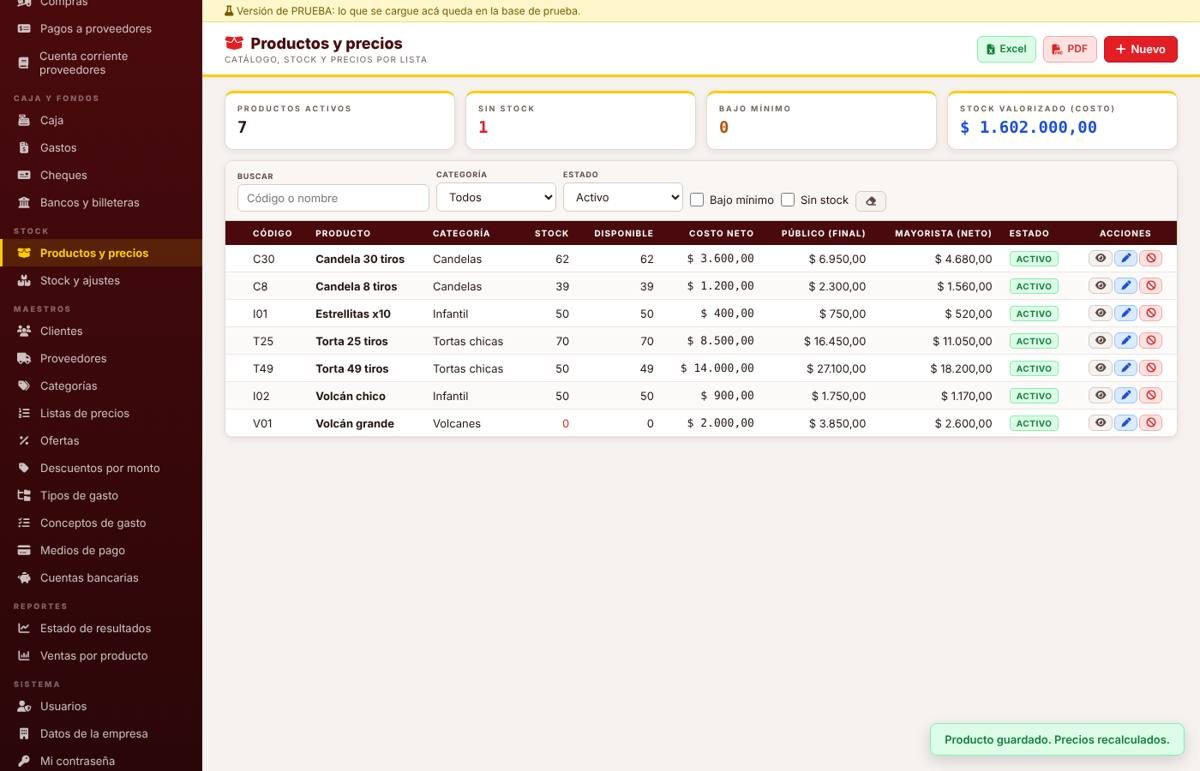
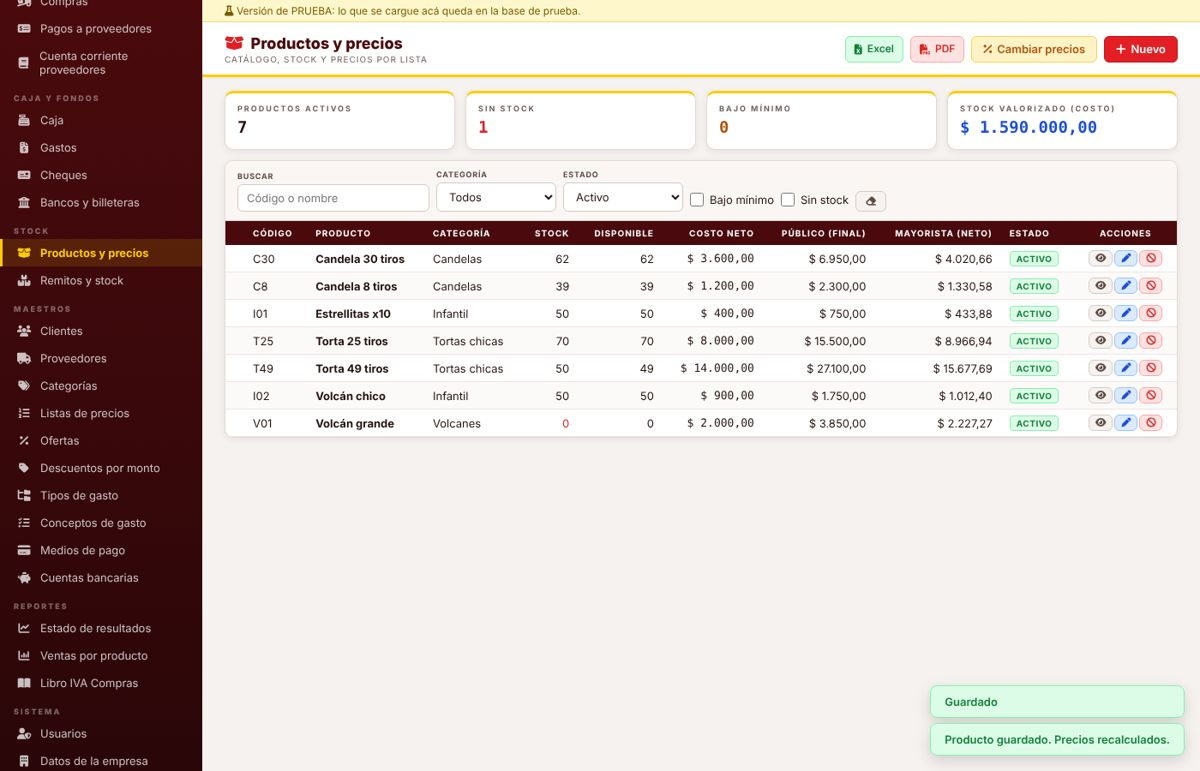
Manual y circuitos: precios, descuentos, cambio masivo, importación y catálogo
Claude-Session: https://claude.ai/code/session_017b1w5AMczjtWGQrhQYJVcd

diff --git a/manual/index.html b/manual/index.html
@@ -170,7 +170,7 @@ const S = [
   </div></div>`,
   ojo:['<b>Nada se borra.</b> Lo que está mal se anula o se da de baja, siempre con un motivo, y queda registrado.',
        '<b>Una venta emitida no se cambia.</b> Se corrige con una nota de crédito (devolver o bonificar) o una nota de débito (cobrar algo más).',
-       '<b>Los precios se calculan solos</b>: costo × (1 + margen de la lista). Para cambiar precios se cambia el costo del producto o el margen de la lista.',
+       '<b>Los precios se calculan solos</b>: la <b>lista base</b> (Público, que es el precio sugerido de venta) = costo × (1 + margen). La <b>Mayorista</b> = lista base − 30 %. Para cambiar precios se cambia el costo (de a uno, en masa por % o importando un Excel) o el margen de la lista base.',
        'Los campos con <b style="color:var(--rojo)">*</b> son obligatorios. Los avisos de abajo a la derecha dicen si salió bien (verde) o por qué no se pudo (rojo).'] },
 
 { id:'primerdia', g:'Empezá acá', t:'Primer día: qué cargar y en qué orden', check:true,
@@ -180,7 +180,7 @@ const S = [
     ['usuarios','<b>Usuarios</b>: creá uno por persona que use el sistema y cambiá las claves iniciales.'],
     ['cuentas','<b>Cuentas bancarias</b>: banco, Mercado Pago, caja fuerte.'],
     ['medios','<b>Medios de pago</b>: indicá en qué cuenta acredita cada uno (transferencia → banco, QR → Mercado Pago) y la comisión de las tarjetas.'],
-    ['listas','<b>Listas de precios</b>: margen de Público y de Mayorista.'],
+    ['listas','<b>Listas de precios</b>: margen de la lista base (Público) y el % de descuento de la Mayorista.'],
     ['categorias','<b>Categorías</b>: los rubros del catálogo y su orden.'],
     ['proveedores','<b>Proveedores</b>.'],
     ['productos','<b>Productos y precios</b>: cada producto con su costo. Los precios salen solos.'],
@@ -202,11 +202,12 @@ const S = [
   para:'Cotizaciones para clientes. El presupuesto guarda sus precios mientras está vigente: si después sube un costo, el cliente paga lo presupuestado.',
   pasos:['Tocá ' + B('+ Nuevo presupuesto') + '.',
     '<b>Paso 1 · Encabezado.</b> Elegí el <b>Cliente</b> en el buscador. Si no existe, tocá el botón de la persona con + al lado y dalo de alta ahí mismo.',
-    'Revisá <b>Lista de precios</b> (por defecto la del cliente) y <b>Válido hasta</b> (por defecto hoy + 7 días). Si corresponde, completá descuento y nota.',
+    'Revisá <b>Lista de precios</b> (por defecto la del cliente) y <b>Válido hasta</b> (por defecto hoy + 2 días). Si querés, escribí una nota.',
     'Tocá ' + B('Guardar encabezado y cargar productos') + '. Aparece el número <code>PR-000001</code> y se habilita el paso 2.',
     '<b>Paso 2 · Productos.</b> En <b>Producto</b> buscá por código, nombre o categoría y elegilo. Debajo aparece el precio de lista y el disponible.',
     'Poné la <b>Cantidad</b> y tocá ' + B('+ Agregar') + ' (o Enter). La línea entra en la grilla y el total de abajo a la derecha se actualiza.',
     'Repetí con cada producto. Para corregir una línea tocá el lápiz; para sacarla, el tacho.',
+    '<b>Descuento general (opcional, solo el dueño).</b> Abajo, en el recuadro <b>3 · Descuento general</b>: escribí el número, elegí <b>%</b> o <b>$</b> (en $ es lo que se descuenta del total con IVA), escribí el <b>Motivo</b> y tocá ' + B('Aplicar descuento y motivo','s') + '. El total se recalcula. Si el cliente tiene descuento propio, ya viene aplicado solo y se ve en los totales.',
     '<b>Paso 3 · Grabar.</b> Tocá ' + B('Grabar presupuesto') + ' al pie. Queda <b>Pendiente</b>, ya no se modifica y la validez de 2 días empieza a correr. Recién ahí aparecen PDF, WhatsApp y Convertir.',
     'Para mandarlo: ' + B('PDF','s') + ' lo descarga, ' + B('Enviar por WhatsApp','g') + ' abre WhatsApp con un mensaje y un link donde el cliente lo ve y lo descarga.',
     'Cuando el cliente confirma, tocá ' + B('Cliente confirmó: convertir en venta') + ': elegí Contado (pasa al cobro) o Cuenta corriente, y si emitiste factura ARCA aparte, su número. Se emite la venta con los precios del presupuesto.',
@@ -214,17 +215,19 @@ const S = [
   campos:[['Cliente','Elegilo del buscador. Botón de la persona + para crear uno nuevo.','Sí'],
     ['Lista de precios','“La del cliente” o una lista puntual.','No'],
     ['Válido hasta','Viene en hoy + 2 días; podés poner una fecha más larga. Al grabar nunca queda en menos de 2 días. Ya pendiente, se cambia con la fecha y el tilde de al lado. Después de esa fecha pasa solo a Vencido.','No'],
-    ['Descuento general %','Descuento sobre todo el presupuesto. Solo el dueño.','No'],
-    ['Motivo del descuento','Por qué se hizo el descuento o el precio especial.','No'],
     ['Nota para el cliente','Sale impresa en el PDF.','No'],
     ['Producto','Buscador por código, nombre o categoría.','Sí'],
     ['Cantidad','Unidades.','Sí'],
     ['Precio neto unit.','Vacío = precio de lista. Escribir un precio = precio especial. Solo el dueño.','No'],
-    ['Desc. línea %','Descuento de esa línea. Solo el dueño.','No']],
+    ['Desc. línea %','Descuento de esa línea. Solo el dueño.','No'],
+    ['Descuento general (al pie)','Número en % o en $. Solo el dueño, antes de grabar.','No'],
+    ['Motivo del descuento / precio especial (al pie)','Obligatorio si hay descuento general, descuento por línea o precio especial.','A veces']],
   botones:[['Excel / PDF','Descarga el listado filtrado.'],['Lápiz u ojo','Abre el presupuesto (lápiz si se puede editar, ojo si ya está cerrado).'],['WhatsApp','Lo manda al celular del cliente.'],['Caja registradora','Convertir en venta.'],['Copiar','Duplicar con precios actuales.']],
   ojo:['Estados: <b>En carga</b> → (Grabar) → <b>Pendiente</b> → <b>Aceptado</b> (se convirtió en venta) · <b>Rechazado</b> · <b>Vencido</b>.',
     'La lista abre filtrada en <b>Pendientes</b>: los que esperan respuesta del cliente.',
     'Un presupuesto grabado no se edita: duplicalo (el nuevo toma los precios de hoy).',
+    'Los descuentos se aplican <b>en cascada</b>, uno sobre el otro: primero el de la línea, después el propio del cliente y al final el general. Ejemplo: $ 1.000 con 10 % de cliente y 5 % general = $ 855 (no $ 850).',
+    'En el PDF y en la página que ve el cliente aparece el subtotal, el descuento en pesos y el total.',
     'Las tarjetas de arriba muestran la <b>Efectividad</b>: aceptados sobre enviados.'] },
 
 { id:'ventas', g:'Ventas', t:'Ventas y notas', shot:'20_venta_cc', cap:'Venta en carga: encabezado, productos y botón Confirmar venta.',
@@ -234,13 +237,14 @@ const S = [
     '<b>Paso 1 · Encabezado.</b> Elegí el <b>Cliente</b> (para un mostrador sin datos usá <b>Consumidor Final</b>). Elegí la <b>Condición</b>: Contado o Cuenta corriente.',
     'Completá si hace falta Recargo, Envío, Nota o N° de factura ARCA, y tocá ' + B('Guardar encabezado y cargar productos') + '.',
     '<b>Paso 2 · Productos.</b> Buscá el producto, poné la cantidad y tocá ' + B('+ Agregar') + '. Repetí. Si no hay stock suficiente, el sistema avisa y no lo deja agregar.',
+    '<b>Descuento general (opcional, solo el dueño).</b> En el recuadro <b>3 · Descuento general</b> de abajo: número en % o en $, <b>Motivo</b> y ' + B('Aplicar descuento y motivo','s') + '. Si pusiste un descuento por línea o un precio especial, el motivo se escribe ahí mismo (aunque el descuento general quede en 0).',
     '<b>Paso 3 · Confirmar.</b> Revisá el total y tocá ' + B('Confirmar venta') + '.',
     'Si es <b>Cuenta corriente</b>, confirmás y listo: queda como deuda del cliente.',
     'Si es <b>Contado</b>, se abre la ventana de cobro (ver abajo). Al confirmar el cobro se emite la venta <code>VTA 0001-00000001</code> y se abre el comprobante.',
     'Desde el comprobante podés bajar el ' + B('PDF','s') + ', mandarlo por ' + B('WhatsApp','g') + ', ' + B('Cobrar','g') + ' si quedó saldo o hacer una ' + B('Nota de crédito','y') + '.'],
   campos:[['Cliente','Del buscador. Botón de la persona + para crearlo.','Sí'],['Lista de precios','La del cliente o una puntual.','No'],['Condición','Contado (se cobra ahora) o Cuenta corriente (queda debiendo).','Sí'],
-    ['Descuento general %','Solo el dueño.','No'],['Motivo del descuento','Obligatorio en la práctica si hay descuento o precio especial.','No'],
-    ['Recargo (neto)','Recargo sin IVA, por ejemplo por pago con tarjeta.','No'],['Envío (neto)','Costo de envío sin IVA.','No'],['Nota','Observación interna.','No'],['N° de factura ARCA','Si la factura electrónica se hizo aparte.','No']],
+    ['Recargo (neto)','Recargo sin IVA, por ejemplo por pago con tarjeta.','No'],['Envío (neto)','Costo de envío sin IVA.','No'],['Nota','Observación interna.','No'],['N° de factura ARCA','Si la factura electrónica se hizo aparte.','No'],
+    ['Descuento general (al pie)','En % o en $. Solo el dueño.','No'],['Motivo (al pie)','Obligatorio si hay descuento general, por línea o precio especial.','A veces']],
   extra:`<div class="blk"><h2>La ventana de cobro</h2><a class="shot" data-z="img/11_cobro.jpg"><img src="img/11_cobro.jpg" alt="Ventana de cobro" loading="lazy"></a><div class="shotcap">Cobro de una venta de contado.</div>
   <ol class="pasos" style="margin-top:12px">
     <li><div>Arriba ves el <b>TOTAL A COBRAR</b> y lo que <b>FALTA</b>. Arranca con una línea de Efectivo por el total.</div></li>
@@ -380,14 +384,20 @@ const S = [
     'Columnas: Stock, <b>Disponible</b> (stock menos lo reservado en pedidos web), Costo (solo dueño), precio <b>Público final</b> y <b>Mayorista neto</b>.',
     'Ojo: ficha del producto con precios vigentes por lista, historial de costos y movimientos de stock de 12 meses.',
     '<b>Alta (solo dueño):</b> ' + B('+ Nuevo') + ', completá los campos y ' + B('Guardar') + '. Los precios se calculan al guardar.',
-    '<b>Cambiar precio:</b> editá el producto y cambiá el <b>Costo neto</b>. Todas las listas se recalculan.',
+    '<b>Cambiar el precio de un producto:</b> editalo y cambiá el <b>Costo neto</b>. La lista base y la mayorista se recalculan solas.',
+    '<b>Cambiar muchos precios juntos (solo dueño):</b> ' + B('Cambiar precios','y') + ' arriba. Dos formas:',
+    '· <b>Subir o bajar por %</b>: elegí la <b>Categoría</b> y/o el <b>Proveedor</b> (vacío = todos), poné el <b>Porcentaje</b> (10 sube 10 %, −5 baja 5 %) y tocá ' + B('Ver cómo quedan','s') + '. Revisá la lista con el costo actual y el nuevo, y tocá ' + B('Aplicar a los … productos') + ' → Confirmar.',
+    '· <b>Importar lista de costos (Excel)</b>: elegí el archivo (.xlsx, .xls o .csv). El sistema busca solo las columnas del <b>código</b> y del <b>costo neto</b>; si no las acierta, elegilas en las listas. Tocá ' + B('Revisar cambios','s') + ': ves cuántos cambian, cuántos quedan igual, los códigos que no existen (no se dan de alta) y las filas con error. Si un costo cambia más de 50 % aparece en rojo para que lo revises. Tocá ' + B('Aplicar … cambios') + ' → Confirmar.',
     '<b>Baja:</b> círculo tachado. Deja de aparecer en el catálogo y en las ventas; no se borra.'],
   campos:[['Código','Único. Ej: PA0600.','Sí'],['Nombre','Como lo ve el cliente.','Sí'],['Categoría','Rubro del catálogo.','Sí'],['Costo neto del proveedor','Sin IVA. Sin costo no hay precio.','Sí al crear'],
     ['IVA','Alícuota, normalmente 21%.','Sí'],['Unidad de venta','Unidad, caja, etc.','Sí'],['Unidades por bulto','Para mayoristas.','No'],['Proveedor principal','Del buscador.','No'],['Stock mínimo','Debajo de esto avisa en Inicio.','No'],
-    ['Código de barras','Para buscar con lector.','No'],['Uso','Venta libre o Uso profesional.','No'],['Edad mínima','Años.','No'],['Descripción','Texto del catálogo.','No'],
+    ['Código de barras','Para buscar con lector.','No'],['Uso','Venta libre o Uso profesional.','No'],['Edad mínima','Años.','No'],['Descripción','Texto del catálogo.','No'],['Video (link de YouTube)','Opcional. En el catálogo aparece “Ver más · video” y el video se ve en la ficha.','No'],['Información adicional','Opcional. Se ve en la ficha del catálogo: duración, efectos, recomendaciones.','No'],
     ['Controla stock','Destildar para servicios o conceptos.','No'],['Pide lote y vencimiento','Al comprar pide lote y fecha.','No'],['Nuevo / Destacado / Outlet','Etiquetas del catálogo.','No'],['Envío por correo','Si se puede mandar por correo.','No'],
     ['Fotos','Tocá <b>Subir fotos</b> y elegilas del celular o la computadora (o sacalas con la cámara). Se achican solas y se guardan en el sistema. La estrella elige la principal (la del catálogo); la cruz quita una. Se guardan al tocar Guardar.','No']],
-  ojo:['El stock no se edita acá: se mueve con compras, ventas, notas de crédito y remitos (menú Remitos y stock).','El operador ve los productos pero no los puede modificar ni ve costos.'] },
+  extra:`<div class="blk"><h2>Cambiar precios por %</h2><a class="shot" data-z="img/62_precios_masivo.jpg"><img src="img/62_precios_masivo.jpg" alt="Cambio masivo de precios" loading="lazy"></a><div class="shotcap">Vista previa de un aumento del 10 % antes de aplicarlo.</div></div>
+  <div class="blk"><h2>Importar la lista de costos</h2><a class="shot" data-z="img/63_importar_costos.jpg"><img src="img/63_importar_costos.jpg" alt="Importar lista de costos" loading="lazy"></a><div class="shotcap">Revisión del archivo: cuántos cambian, cuáles no existen y los costos nuevos.</div></div>`,
+  ojo:['Todos los cambios de costo quedan en el historial del producto (ojo → Historial de costos). Nada se pierde.',
+       'El stock no se edita acá: se mueve con compras, ventas, notas de crédito y remitos (menú Remitos y stock).','El operador ve los productos pero no los puede modificar ni ve costos.'] },
 
 { id:'stock', g:'Stock', t:'Remitos y stock', shot:'90_operador', cap:'Listado de remitos: uno para autorizar y uno ya facturado.',
   para:'Toda entrada o salida de mercadería que no es una venta ni una factura de compra se hace con un <b>remito</b>. El operador lo carga y el <b>dueño lo autoriza</b>: recién ahí se mueve el stock.',
@@ -412,16 +422,18 @@ const S = [
     B('+ Nuevo') + ': completá los campos y ' + B('Guardar') + '. También se crean desde una venta o presupuesto.',
     'Lápiz para editar, ojo para la cuenta corriente, WhatsApp para escribirle.'],
   campos:[['Tipo','Consumidor o Mayorista. Define la lista de precios por defecto.','Sí'],['Nombre / Razón social','','Sí'],['Celular (WhatsApp)','Con código de área: 387 474-9807. No se puede repetir.','No'],['Email','','No'],
-    ['Tipo y N° de documento','DNI, CUIT o CUIL.','No'],['Condición IVA','Consumidor final por defecto.','Sí'],['Lista de precios','Solo el dueño. Vacío = según el tipo.','No'],['Dirección / Localidad','','No'],
+    ['Tipo y N° de documento','DNI, CUIT o CUIL.','No'],['Condición IVA','Consumidor final por defecto.','Sí'],['Lista de precios','Solo el dueño. Vacío = según el tipo.','No'],['Dirección / Localidad','','No'],['Código postal','Para los envíos.','No'],
+    ['Descuento del cliente %','Solo el dueño. Se aplica solo en sus presupuestos y ventas, además de los otros descuentos (no en el catálogo web).','No'],
     ['Límite de crédito','Solo el dueño. 0 = sin límite.','No'],['Notas','','No']],
-  ojo:['El operador puede crear clientes y corregir sus datos de contacto; tipo, lista, límite y baja los cambia el dueño.'] },
+  ojo:['El operador puede crear clientes y corregir sus datos de contacto; tipo, lista, descuento, límite y baja los cambia el dueño.',
+    'Un cliente con tipo <b>Mayorista</b> usa la lista Mayorista (lista base − 30 %) y, desde el catálogo mayorista, sus pedidos se registran a su nombre si usa el celular que tiene cargado.'] },
 
 { id:'maestros', g:'Maestros', t:'Proveedores, categorías y demás tablas', shot:'p_categorias', cap:'Pantalla de Categorías: todas las tablas maestras funcionan igual.',
   para:'Las tablas que alimentan los buscadores y listas desplegables. Todas funcionan igual: ' + B('+ Nuevo') + ', lápiz para editar, círculo tachado para dar de baja y flecha verde para reactivar. Las altas y cambios las hace el dueño.',
   extra:`<div class="blk"><h2>Qué tiene cada una</h2><div class="tw"><table><thead><tr><th>Pantalla</th><th>Campos</th><th>Para qué</th></tr></thead><tbody>
   <tr><td>Proveedores <span class="chip d">dueño</span></td><td>Razón social*, CUIT, Condición IVA, Teléfono, Email, Dirección, Plazo de pago (días), Notas</td><td>Compras y pagos. El libro abre su cuenta corriente.</td></tr>
   <tr><td>Categorías</td><td>Nombre*, Orden en el catálogo</td><td>Rubros del catálogo. Orden 1 sale primero.</td></tr>
-  <tr><td>Listas de precios</td><td>Código* (solo al crear), Nombre*, Margen %*, Redondear a múltiplos de $, Redondear el precio final con IVA</td><td>Precio = costo × (1 + margen), redondeado. Al cambiar margen o redondeo se recalculan todos los precios. El reloj muestra el historial de márgenes. Público y Mayorista no se pueden desactivar.</td></tr>
+  <tr><td>Listas de precios <span class="chip d">dueño</span></td><td>Código* (solo al crear), Nombre*, <b>Se calcula desde</b> (el costo con margen, u otra lista), Descuento % sobre esa lista, Margen %, Redondear a múltiplos de $ (0,01 = sin redondeo), Redondear el precio final con IVA</td><td><b>Público</b> es la lista base (precio sugerido) = costo × (1 + margen), redondeada sobre el precio final. <b>Mayorista</b> = Público − 30 %. Si cambia el margen de la base, la mayorista se recalcula sola. El reloj muestra el historial de márgenes. Público y Mayorista no se pueden desactivar.</td></tr>
   <tr><td>Ofertas</td><td>Producto*, Lista*, Precio de oferta NETO*, Desde*, Hasta*</td><td>Precio especial por fechas. Muestra si está programada, vigente o terminó.</td></tr>
   <tr><td>Descuentos por monto <span class="chip d">dueño</span></td><td>Lista*, Monto neto desde*, Descuento %*, Vigente desde, Vigente hasta</td><td>Descuento automático en el catálogo según el total. Ej: 5% desde $100.000 neto.</td></tr>
   <tr><td>Tipos de gasto</td><td>Nombre*</td><td>Grupos: Servicios, Sueldos, Impuestos…</td></tr>
@@ -450,15 +462,17 @@ const S = [
   para:'La tienda web que reemplaza a Tiendanube. El cliente arma el pedido y lo manda por WhatsApp; el pedido queda guardado en el panel.',
   pasos:[`Dirección: <a href="${CATALOGO}" target="_blank">${CATALOGO}</a>`,
     'El cliente elige categoría o busca, ajusta la cantidad con − y + y toca ' + B('Agregar') + '.',
+    'Si el producto tiene video o información adicional, aparece <b>Ver más</b> debajo del precio: abre una ficha con el video, las fotos y la información, y desde ahí también se agrega al pedido.',
     'Toca ' + B('MI PEDIDO','y') + ' (abajo a la derecha): ve los productos, cambia cantidades o los saca. Si hay descuento por monto, le avisa cuánto le falta para obtenerlo.',
     'Completa <b>Nombre y apellido</b>, <b>Celular</b> y si quiere un <b>Comentario</b>, y toca ' + B('Enviar pedido') + '.',
     'El pedido se guarda con su número y se abre WhatsApp con el detalle completo: cada producto con código, cantidad, precio unitario y subtotal, el total, nombre, celular y comentario. El cliente toca enviar.',
     'Vos lo ves en el panel en <b>Pedidos web</b> para confirmarlo.'],
-  extra:`<div class="blk"><h2>Mayoristas</h2><a class="shot" data-z="img/07_catalogo_mayorista.jpg"><img src="img/07_catalogo_mayorista.jpg" alt="Catálogo mayorista" loading="lazy"></a><div class="shotcap">Con el usuario mayorista los precios se ven netos + IVA.</div>
+  extra:`<div class="blk"><h2>Ficha del producto (Ver más)</h2><a class="shot" data-z="img/04_ficha_video.jpg"><img src="img/04_ficha_video.jpg" alt="Ficha con video" loading="lazy"></a><div class="shotcap">El video y la información se cargan en Productos (campos Video e Información adicional).</div></div>
+  <div class="blk"><h2>Mayoristas</h2><a class="shot" data-z="img/07_catalogo_mayorista.jpg"><img src="img/07_catalogo_mayorista.jpg" alt="Catálogo mayorista" loading="lazy"></a><div class="shotcap">Con el usuario mayorista los precios se ven netos + IVA.</div>
   <ol class="pasos" style="margin-top:12px"><li><div>Botón ${B('Mayoristas','s')} arriba a la derecha (en el celular, el segundo ícono al lado del buscador).</div></li>
   <li><div>Usuario y contraseña de mayorista (los crea el dueño en Usuarios con rol Mayorista).</div></li>
-  <li><div>Los precios pasan a la lista Mayorista, netos + IVA. El pedido funciona igual y el WhatsApp sale con neto, IVA y total.</div></li></ol>
-  <p style="margin:12px 0 0">El botón ${B('Lista','s')} descarga la lista de precios en Excel.</p></div>`,
+  <li><div>Los precios pasan a la lista Mayorista (lista base − 30 %), netos + IVA, y debajo de cada uno se ve el <b>Precio sugerido de venta</b> (la lista base). El pedido funciona igual y el WhatsApp sale con neto, IVA y total.</div></li>
+  <li><div>El botón ${B('Lista','s')} (solo con usuario mayorista) descarga la lista en Excel: código, producto, bulto, precio neto, IVA, precio con IVA, precio sugerido, oferta y stock.</div></li></ol></div>`,
   ojo:['El precio queda reservado 48 h hasta que lo confirmes.','Cada celular puede hacer un máximo de pedidos por día (se configura en Datos de la empresa).'] },
 
 { id:'problemas', g:'Ayuda', t:'Problemas frecuentes',

diff --git a/circuitos/index.html b/circuitos/index.html
@@ -61,11 +61,11 @@ a:focus-visible{outline:2px solid var(--amarillo);outline-offset:2px}
   <div class="eye">Pirotecnia Boom · sistema de gestión</div>
   <h1>Cómo funciona cada circuito</h1>
   <p class="lead">Todos los recorridos del sistema en una sola página: qué pasos tiene cada uno, qué mueve (stock, caja, cuenta corriente) y las reglas que hoy aplica. Así se revisa todo de una vez y no pantalla por pantalla.</p>
-  <div class="como"><b>Cómo responder:</b> cada regla tiene un código. Mandame solo los que quieras distinto, por ejemplo: <code>P1: 48 horas exactas</code> · <code>V1: permitir vender sin stock</code>. Lo que no menciones queda como está.</div>
+  <div class="como"><b>¿Quieren cambiar una regla?</b> Cada regla tiene un código. Avisen solo las que quieran distinto, con su código, por ejemplo: <code>P1: 3 días de validez</code> · <code>V1: permitir vender sin stock</code>. Lo que no se mencione queda como está.</div>
 </header>
 
 <nav>
-  <a href="#p"><b>P</b>Presupuesto</a><a href="#v"><b>V</b>Venta</a><a href="#w"><b>W</b>Pedido web</a><a href="#c"><b>C</b>Cobranza</a><a href="#k"><b>K</b>Compra</a><a href="#o"><b>O</b>Pago a proveedor</a><a href="#s"><b>S</b>Remitos y stock</a><a href="#j"><b>J</b>Caja</a><a href="#g"><b>G</b>Gastos</a><a href="#q"><b>Q</b>Cheques</a><a href="#r"><b>R</b>Precios</a>
+  <a href="#p"><b>P</b>Presupuesto</a><a href="#v"><b>V</b>Venta</a><a href="#w"><b>W</b>Pedido web</a><a href="#c"><b>C</b>Cobranza</a><a href="#k"><b>K</b>Compra</a><a href="#o"><b>O</b>Pago a proveedor</a><a href="#s"><b>S</b>Remitos y stock</a><a href="#j"><b>J</b>Caja</a><a href="#g"><b>G</b>Gastos</a><a href="#q"><b>Q</b>Cheques</a><a href="#r"><b>R</b>Precios y descuentos</a>
 </nav>
 
 <section id="p">
@@ -90,7 +90,8 @@ a:focus-visible{outline:2px solid var(--amarillo);outline-offset:2px}
     <li><code>P2</code><span>El presupuesto <b>no reserva stock</b>. Si al convertirlo no hay stock, el sistema no deja emitir la venta.</span></li>
     <li><code>P3</code><span>Mientras está pendiente <b>respeta su precio</b> aunque suba el costo.</span></li>
     <li><code>P4</code><span>Un presupuesto grabado <b>no se modifica</b>: se duplica y se graba uno nuevo.</span></li>
-    <li><code>P5</code><span>El operador puede presupuestar, pero <b>no poner descuentos ni precios especiales</b>.</span></li>
+    <li><code>P5</code><span>El operador puede presupuestar, pero <b>no poner descuentos ni precios especiales</b>. El descuento propio del cliente sí se aplica solo.</span></li>
+    <li><code>P6</code><span>El <b>descuento general</b> va <b>al pie</b>, en % o en $, antes de grabar. En el PDF se ve el descuento en pesos.</span></li>
   </ul>
 </section>
 
@@ -142,8 +143,9 @@ a:focus-visible{outline:2px solid var(--amarillo);outline-offset:2px}
     <li><code>W1</code><span>El pedido <b>reserva stock</b> mientras está abierto.</span></li>
     <li><code>W2</code><span>Vence a las <b>48 horas</b> (Datos de la empresa).</span></li>
     <li><code>W3</code><span>Máximo <b>5 pedidos por celular por día</b>.</span></li>
-    <li><code>W4</code><span>El WhatsApp llega al número de <b>Datos de la empresa</b> (hoy el tuyo, para probar).</span></li>
-    <li><code>W5</code><span>Mayoristas: mismo circuito con precios de la lista Mayorista, netos + IVA.</span></li>
+    <li><code>W4</code><span>El WhatsApp llega al número de <b>Datos de la empresa</b> (se cambia ahí cuando quieran).</span></li>
+    <li><code>W5</code><span>Mayoristas: entran con el usuario de mayoristas, ven su precio (base − 30 %) neto + IVA y el <b>precio sugerido</b>. El pedido toma precio mayorista <b>solo si el celular es de un cliente cargado como Mayorista</b>; si no, va a precio público y se avisa.</span></li>
+    <li><code>W6</code><span>La <b>lista en Excel</b> se descarga solo con el usuario de mayoristas. <b>Ver más</b> abre la ficha con video e información del producto.</span></li>
   </ul>
 </section>
 
@@ -276,20 +278,38 @@ a:focus-visible{outline:2px solid var(--amarillo);outline-offset:2px}
 </section>
 
 <section id="r">
-  <h2><span class="cod">R</span>Precios</h2>
+  <h2><span class="cod">R</span>Precios <span class="nuevo">nuevo</span></h2>
   <div class="flujo">
-    <div class="p"><b>Costo neto</b><span>Del producto o de la última compra.</span></div><div class="fl">×</div>
-    <div class="p"><b>1 + margen de la lista</b><span>Público 60 %, Mayorista 30 % (de prueba).</span></div><div class="fl">→</div>
-    <div class="p"><b>Redondeo</b><span>Público: al precio final con IVA.</span></div><div class="fl">→</div>
-    <div class="p fin"><b>Precio de lista</b></div>
+    <div class="p"><b>Costo neto</b><span>Del producto, de la última compra, de un cambio masivo o de la lista importada.</span></div><div class="fl">×</div>
+    <div class="p"><b>1 + margen</b><span>De la lista base (Público).</span></div><div class="fl">→</div>
+    <div class="p fin"><b>Lista base = precio sugerido</b><span>Redondeada al precio final con IVA. Es lo que ve el público.</span></div><div class="fl">→</div>
+    <div class="p fin"><b>Mayorista = base − 30 %</b><span>Neto + IVA, sin redondeo.</span></div>
   </div>
+  <h3>Cómo se cambian los precios (siempre por el costo)</h3>
+  <div class="ramas">
+    <div class="flujo"><span class="r">Un producto</span><div class="fl">→</div><div class="p"><b>Editar el producto</b><span>Cambiar el costo neto.</span></div></div>
+    <div class="flujo"><span class="r">Muchos por %</span><div class="fl">→</div><div class="p"><b>Cambiar precios → por %</b><span>Todos, una categoría o un proveedor. Vista previa y después aplicar.</span></div></div>
+    <div class="flujo"><span class="r">Lista del proveedor</span><div class="fl">→</div><div class="p"><b>Cambiar precios → Importar Excel</b><span>Código + costo neto. Vista previa: cambian, iguales, no existen, con error.</span></div></div>
+    <div class="flujo"><span class="r">Todo el margen</span><div class="fl">→</div><div class="p"><b>Listas de precios → Público</b><span>Cambiar el margen. La mayorista se recalcula sola.</span></div></div>
+  </div>
+  <h3>Descuentos (se aplican en cascada, uno sobre el otro)</h3>
+  <div class="tw"><table><thead><tr><th>Descuento</th><th>Dónde se pone</th><th>Dónde aplica</th></tr></thead><tbody>
+    <tr><td>Por línea %</td><td>Al cargar el producto (dueño)</td><td>Presupuesto y venta</td></tr>
+    <tr><td>Del cliente %</td><td>Ficha del cliente (dueño)</td><td>Presupuesto y venta (solo, automático)</td></tr>
+    <tr><td>General en % o $</td><td>Al pie, antes de grabar o confirmar (dueño, con motivo)</td><td>Presupuesto y venta</td></tr>
+    <tr><td>Por monto</td><td>Descuentos por monto</td><td>Catálogo web (como estaba)</td></tr></tbody></table></div>
+  <h3>Reglas actuales</h3>
   <ul class="reg">
-    <li><code>R1</code><span>Cambiar el margen de una lista <b>recalcula todos sus precios</b> y guarda el historial.</span></li>
-    <li><code>R2</code><span><b>Ofertas</b>: precio especial por producto y lista, entre dos fechas.</span></li>
-    <li><code>R3</code><span><b>Descuentos por monto</b>: automáticos en el catálogo según el total del pedido.</span></li>
-    <li><code>R4</code><span>Los márgenes y costos actuales son <b>de prueba</b>: hay que cargar los reales.</span></li>
+    <li><code>R1</code><span>La <b>lista base</b> (Público) es el <b>precio sugerido</b>: costo × (1 + margen), redondeado al final con IVA.</span></li>
+    <li><code>R2</code><span>La <b>Mayorista sale de la base con 30 % de descuento</b>. Si cambia la base, se recalcula sola. El % se cambia en Listas de precios.</span></li>
+    <li><code>R3</code><span>Todo cambio de costo o margen <b>queda en el historial</b>.</span></li>
+    <li><code>R4</code><span>La lista importada <b>no da de alta productos</b>: los códigos que no existen se informan. Los cambios de más de 50 % se marcan en rojo.</span></li>
+    <li><code>R5</code><span>Descuentos <b>en cascada</b>: $ 1.000 con 10 % de cliente y 5 % general = $ 855.</span></li>
+    <li><code>R6</code><span>El <b>descuento del cliente</b> no aplica en el catálogo web (ahí rigen los descuentos por monto).</span></li>
+    <li><code>R7</code><span><b>Ofertas</b>: precio especial por producto y lista, entre dos fechas.</span></li>
+    <li><code>R8</code><span>Los márgenes y costos actuales son <b>de prueba</b>: hay que cargar los reales.</span></li>
   </ul>
 </section>
 
-<footer>Respondé con los códigos que quieras cambiar. Lo que no menciones queda como está.</footer>
+<footer>Para cambiar una regla, indicá su código. Lo que no se mencione queda como está.</footer>
 </div>
